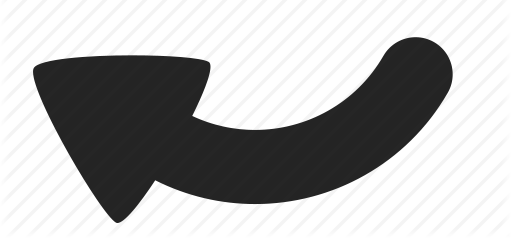
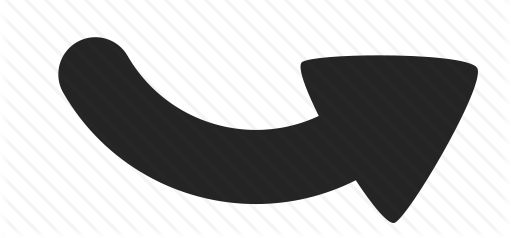
rotate

diff --git a/GameBoard.js b/GameBoard.js
@@ -2,7 +2,7 @@ var CrossImage = "res/Cross.png";
 var ShapeImage = "res/Shape.png";
 var DefaultImage = "res/CircleCross.jpg";
 
-var RightArrow = "res/arrowL.png";
+var RightArrow = "res/arrowR.png";
 var LeftArrow = "res/arrowL.png";
 
 var foo = function(x){
@@ -24,24 +24,16 @@ var Game = React.createClass({
                     <table>
                         <tbody>
                         <tr>
-                            <td><Button id="kot" /></td> <td></td>
-                            <td></td> <td><Button /></td>
+                            <td><div id = "buttons"><ButtonR ide = "#id0"/><ButtonL ide = "#id0"/></div></td>
+                            <td><div id="id0">{this.state.boards[0]}</div></td>
+                            <td><div id="id1">{this.state.boards[1]}</div></td>
+                            <td><div id="buttons"><ButtonR ide = "#id1"/><ButtonL ide = "#id1"/></div></td>
                         </tr>
                         <tr>
-                            <td></td>
-                            <td>{this.state.boards[0]}</td>
-                            <td>{this.state.boards[1]}</td>
-                            <td></td>
-                        </tr>
-                        <tr>
-                            <td></td>
-                            <td>{this.state.boards[2]}</td>
-                            <td>{this.state.boards[3]}</td>
-                            <td></td>
-                        </tr>
-                        <tr>
-                            <td><Button /></td> <td></td>
-                            <td></td> <td><Button /></td>
+                            <td><div id="buttons"><ButtonR ide = "#id2"/><ButtonL ide = "#id2"/></div></td>
+                            <td><div id="id2">{this.state.boards[2]}</div></td>
+                            <td><div id="id3">{this.state.boards[3]}</div></td>
+                            <td><div id="buttons"><ButtonR ide = "#id3"/><ButtonL ide = "#id3"/></div></td>
                         </tr>
                         </tbody>
                     </table>
@@ -73,25 +65,6 @@ var Game = React.createClass({
     }
 
 });
-
-var BoardWithButton = React.createClass({
-    render: function () {
-        return(
-            <table>
-                <tbody>
-                    <tr>
-                        <td><Button /></td>
-                        <td></td>
-                    </tr>
-                    <tr>
-                        <td></td>
-                        <td><Board /></td>
-                    </tr>
-                </tbody>
-            </table>
-        )
-    }
-})
 
 var Board = React.createClass({
     getInitialState: function(){
@@ -158,33 +131,39 @@ var Field = React.createClass({
     }
 });
 
-var Button = React.createClass({
+var ButtonR = React.createClass({
     render: function(){
         return(
-            <a href="#" onClick={this.rotate.bind(this, "left")}>
+            <a href="#" onClick={this.rotate.bind(null, this.props.ide)}>
                 <img className="button" src={RightArrow}/>
             </a>
         );
     },
-    rotate: function(direction) {
-        console.log("och maciek");
-        var angle = -90;
-        if (direction == "left") {
-            angle = -90;
-        }else {
-            angle = 90;
-        }
-        $("#kot").animate({borderSpacing: angle}, {
-            step: function (now, fx) {
-                console.log("funkcja kurwa");
-                $(this).css("-webkit-transform-origin", "center center");
-                $(this).css('-moz-transform', 'rotate(' + now + 'deg)');
-                $(this).css('transform', 'rotate(' + now + 'deg)');
-            },
-            duration: 'slow'
-        }, 'linear');
+    rotate: function(ide) {
+        var angle = $(ide).data('angle') || 0;
+        $(ide).css({'transform': 'rotate(' + angle + 'deg)'});
+        $(ide).data('angle', angle + 90);
     }
 });
+
+var ButtonL = React.createClass({
+    render: function(){
+        return(
+            <a href="#" onClick={this.rotate.bind(null, this.props.ide)}>
+                <img className="button" src={LeftArrow}/>
+            </a>
+        );
+    },
+    rotate: function(ide) {
+        var angle = $(ide).data('angle') || 0;
+        $(ide).css({'transform': 'rotate(' + angle + 'deg)'});
+        $(ide).data('angle', angle - 90);
+    }
+});
+
+
+
+
 
 ReactDOM.render(
     <Game />,

diff --git a/MyStyles.css b/MyStyles.css
@@ -6,9 +6,30 @@
     left: 50%;
     margin-left: -300px;
 }
+
+
+#kot1{
+    -ms-transform: rotate(-90deg); /* IE 9 */
+    -webkit-transform: rotate(-90deg); /* Safari */
+    transform: rotate(-90deg);
+}
+#buttonToReverce{
+    -ms-transform: rotate(180deg); /* IE 9 */
+    -webkit-transform: rotate(180deg); /* Safari */
+    transform: rotate(180deg);
+}
+
+.buttonsDiv{
+    width: 30px;
+}
 .button{
     width: 50px;
     weight: auto;
+    padding: 5px;
+}
+#buttons{
+    width: 60px;
+    height: auto;
 }
 .field{
     width: 100px;

diff --git a/index.html b/index.html
@@ -13,11 +13,11 @@
     <title>Pentago</title>
 </head>
 <body>
-<h3> Pentago!!! </h3>
 <div id="root">
 
 </div>
 <script type="text/babel"  src="GameBoard.js">
 </script>
+<script type="text/babel" src="animations.js"></script>
 </body>
 </html>

diff --git a/indexGameWon.html b/indexGameWon.html
@@ -1,0 +1,12 @@
+<!DOCTYPE html>
+<html lang="en">
+<head>
+    <meta charset="UTF-8">
+    <title></title>
+</head>
+<body background="res/bg.png">
+<img src="res/nyancat.gif" />
+
+
+</body>
+</html>

diff --git a/animations.js b/animations.js
@@ -7,3 +7,8 @@ $('#root').animate({  borderSpacing: -360 }, {
     },
     duration:'slow'
 },'linear');
+
+//$('#buttonToReverce').click(function(){
+//    $('#id0').toggleClass('rotated');
+//});
+
